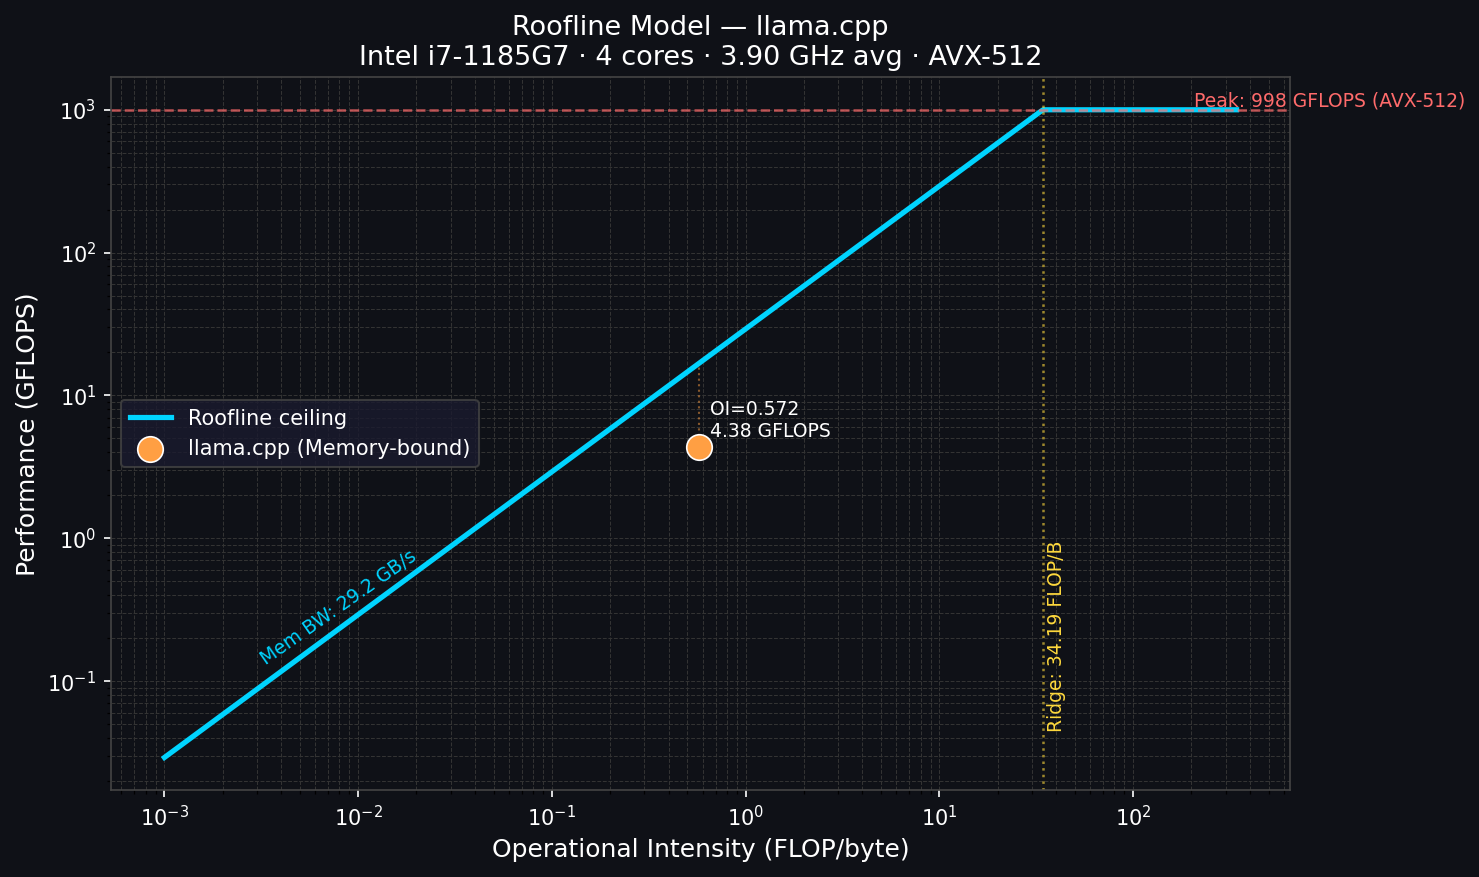
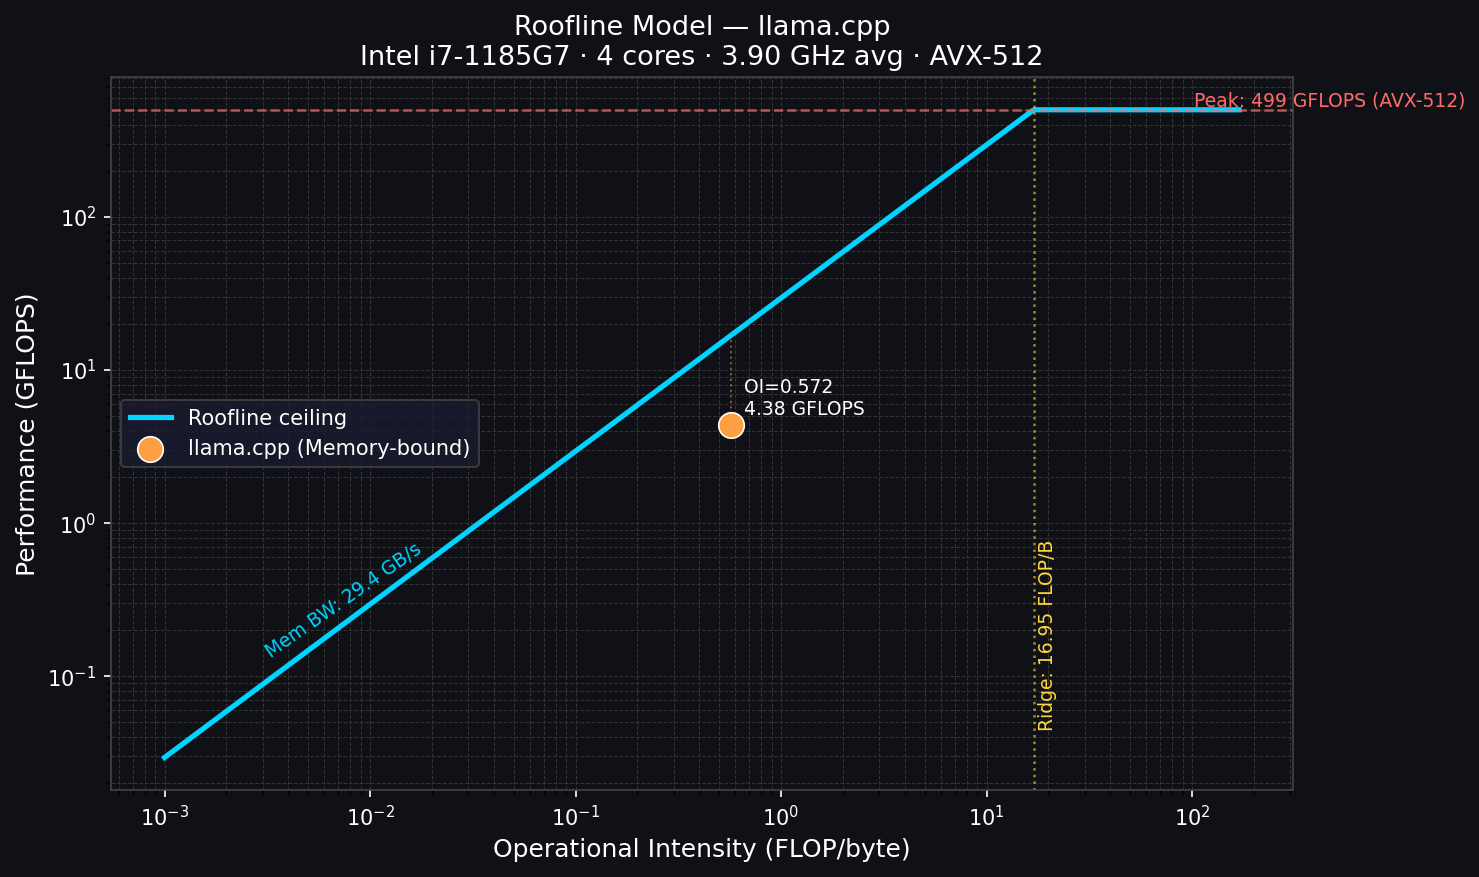
Changed the formel for peak flops

diff --git a/09A-backend/Roofline.py b/09A-backend/Roofline.py
@@ -108,14 +108,14 @@ def get_cpu_info():
 
 def compute_peak_flops(cpu):
     """Peak FLOPS in GFLOPS using average frequency."""
-    # ×2 for FMA (multiply-add counts as 2 FLOPS)
-    peak = cpu["cores"] * cpu["avg_ghz"] * cpu["flops_per_cycle"] * 2
+    # No FMA factor — conservative theoretical peak
+    peak = cpu["cores"] * cpu["avg_ghz"] * cpu["flops_per_cycle"]
     print(f"\n── Problem 1: Hardware Ceiling ──────────────────")
     print(f"  CPU cores (physical): {cpu['cores']}")
     print(f"  Frequency min/max:    {cpu['min_ghz']:.2f} / {cpu['max_ghz']:.2f} GHz")
     print(f"  Frequency (bas+boost)/2: {cpu['avg_ghz']:.2f} GHz  (bas={cpu['base_ghz']:.2f}, boost={cpu['max_ghz']:.2f})")
     print(f"  ISA:                  {cpu['isa']} → {cpu['flops_per_cycle']} FP32/cycle")
-    print(f"  Peak FLOPS:           {peak:.1f} GFLOPS  (with FMA ×2)")
+    print(f"  Peak FLOPS:           {peak:.1f} GFLOPS  (no FMA, conservative)")
     return peak  # GFLOPS
 
 